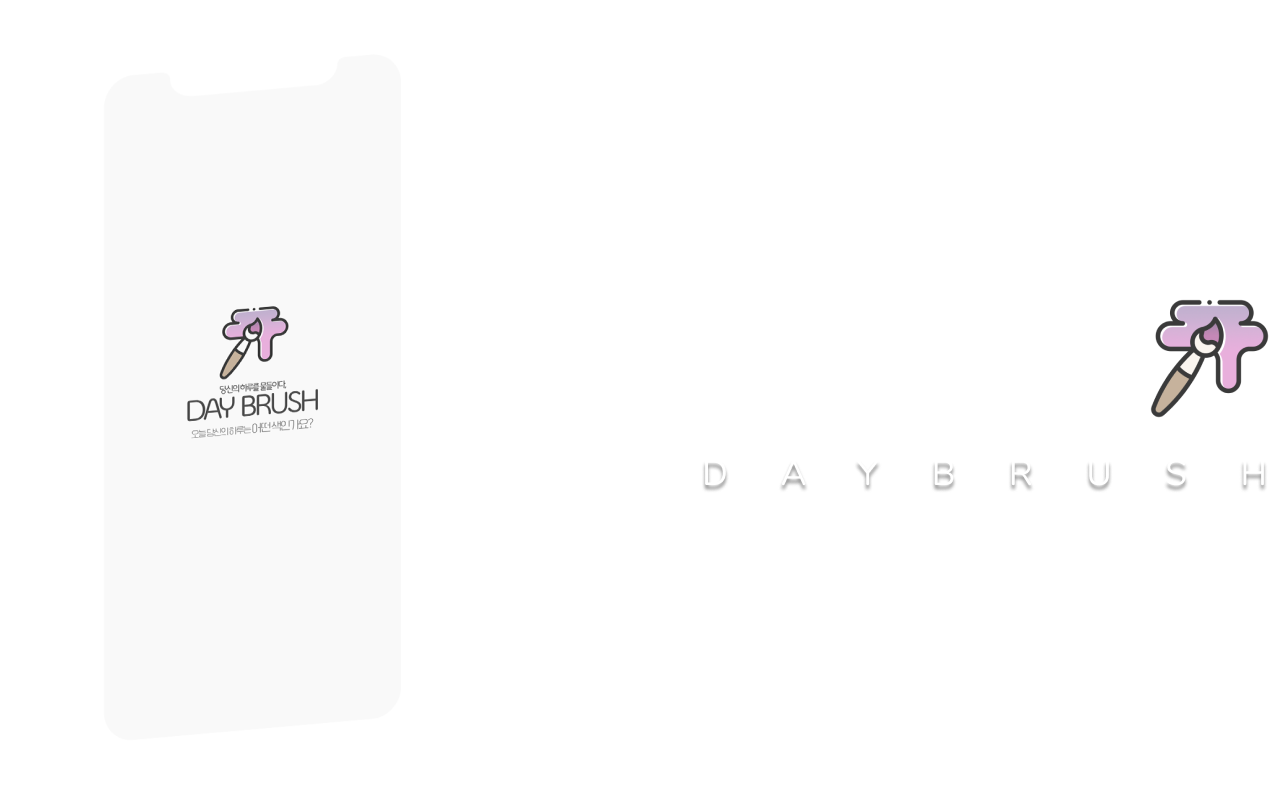
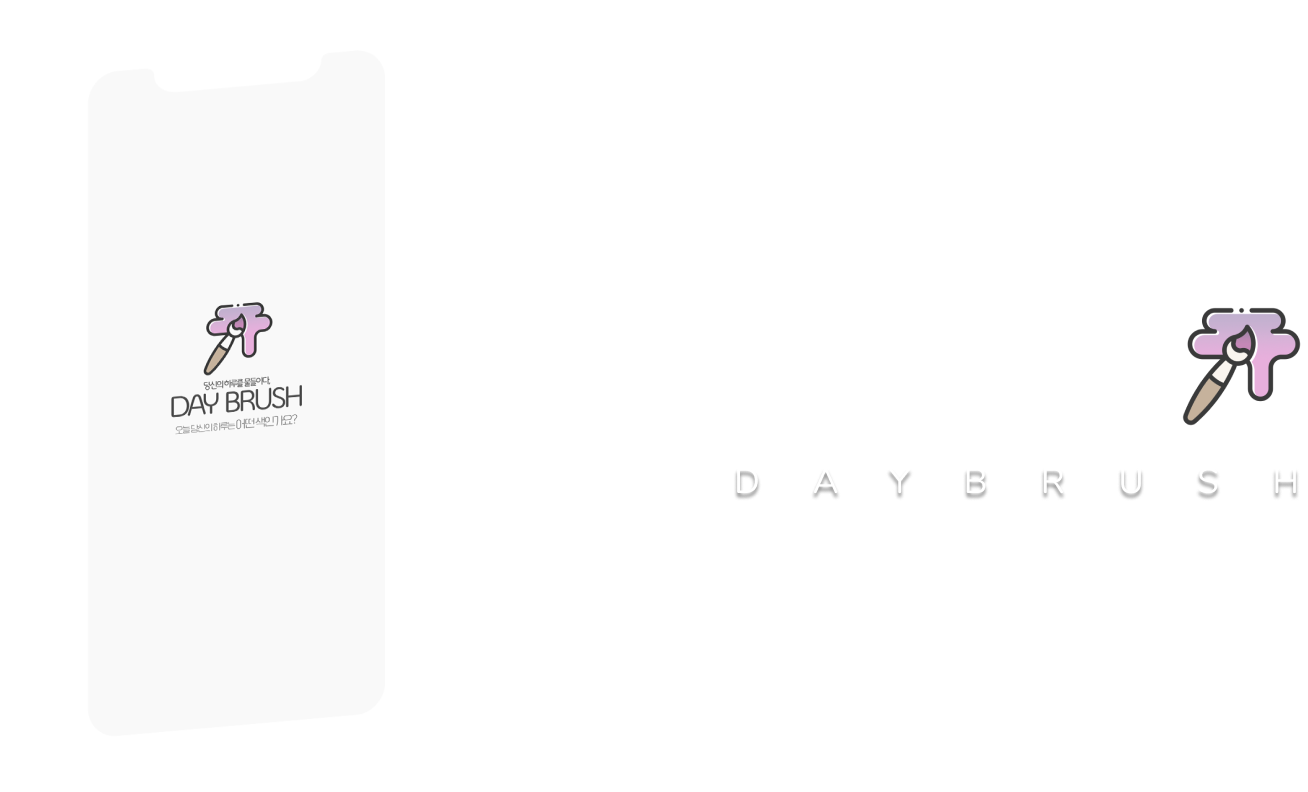
찐 최종

diff --git a/docs/pf/work/index.css b/docs/pf/work/index.css
@@ -179,8 +179,7 @@
 /* 부가적이미지 */
 
 .D-main_introwrite {
-  top:1%;
-  width:75%;
+  top:1.1%;
 }
 
 .D-main_introwrite > img {
@@ -234,7 +233,7 @@
 
 .D-main-2 {
   top:78%;
-  left:14.5%;
+  left:15%;
   width:19%;
 }
 
